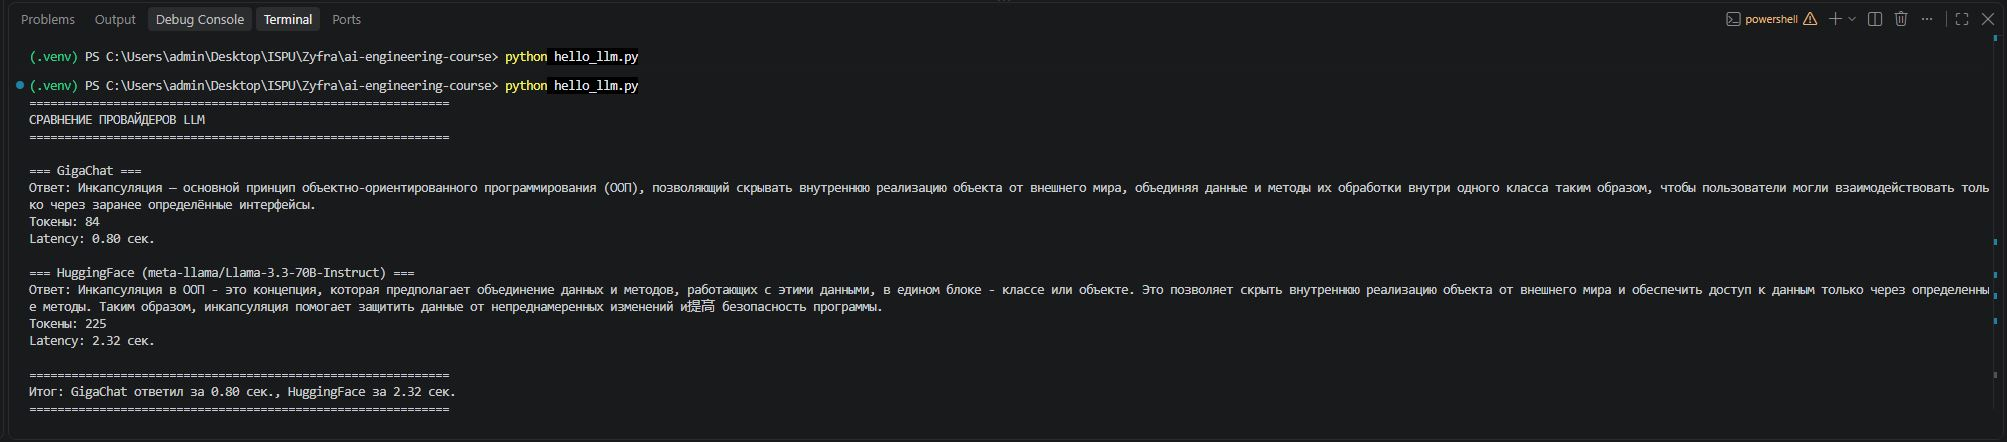
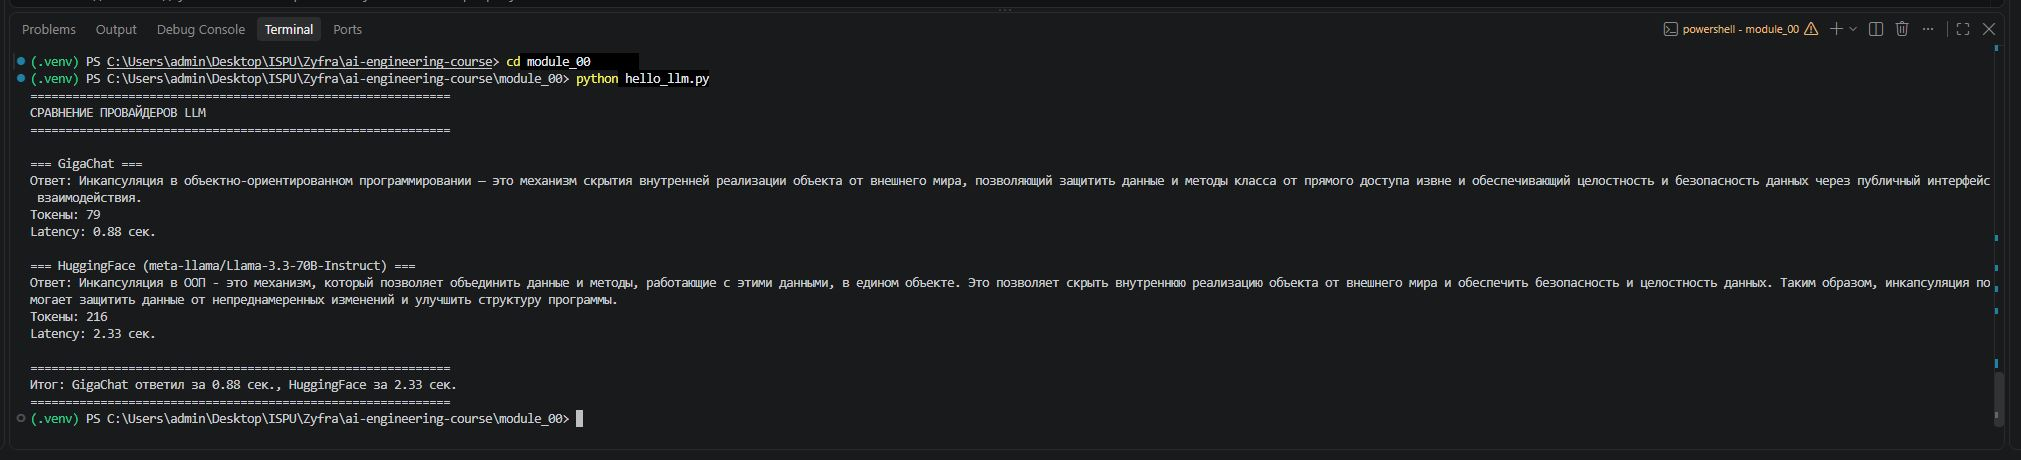
module-00 fixed

diff --git a/module_00/hello_llm.py b/module_00/hello_llm.py
@@ -18,8 +18,7 @@ from openai import OpenAI
 
 
 # ШАГ 2: Раскомментируй строку ниже — она загружает ключи из .env
-# load_dotenv(Path(__file__).parent.parent / ".env")
-load_dotenv(Path(__file__).parent / ".env")
+load_dotenv(Path(__file__).parent.parent / ".env")
 
 
 # ШАГ 3: Укажи вопрос, который отправим в оба провайдера
